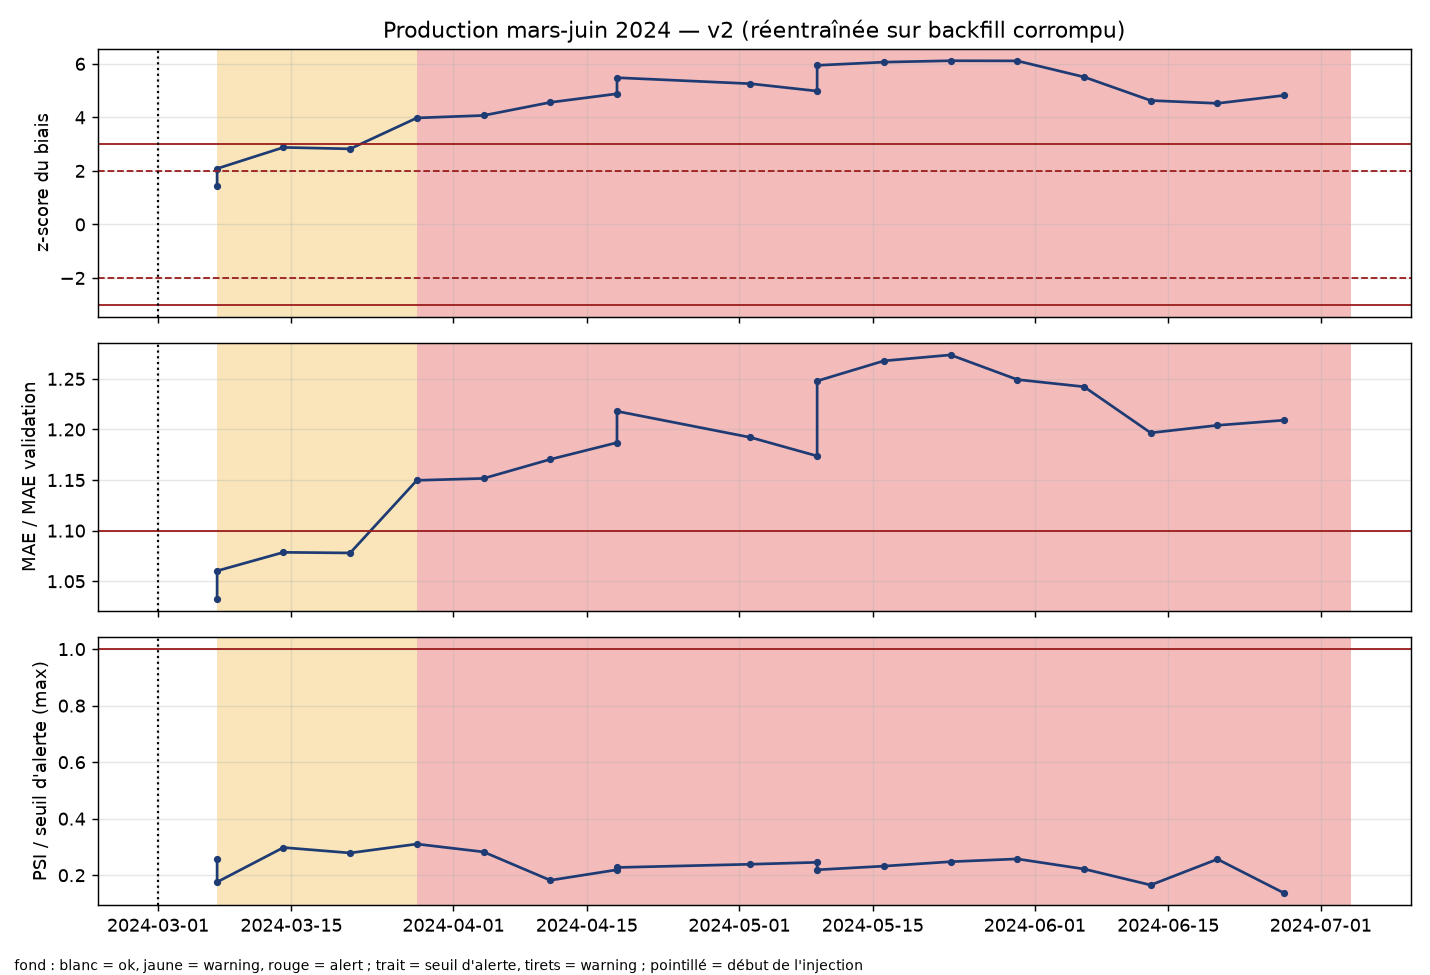
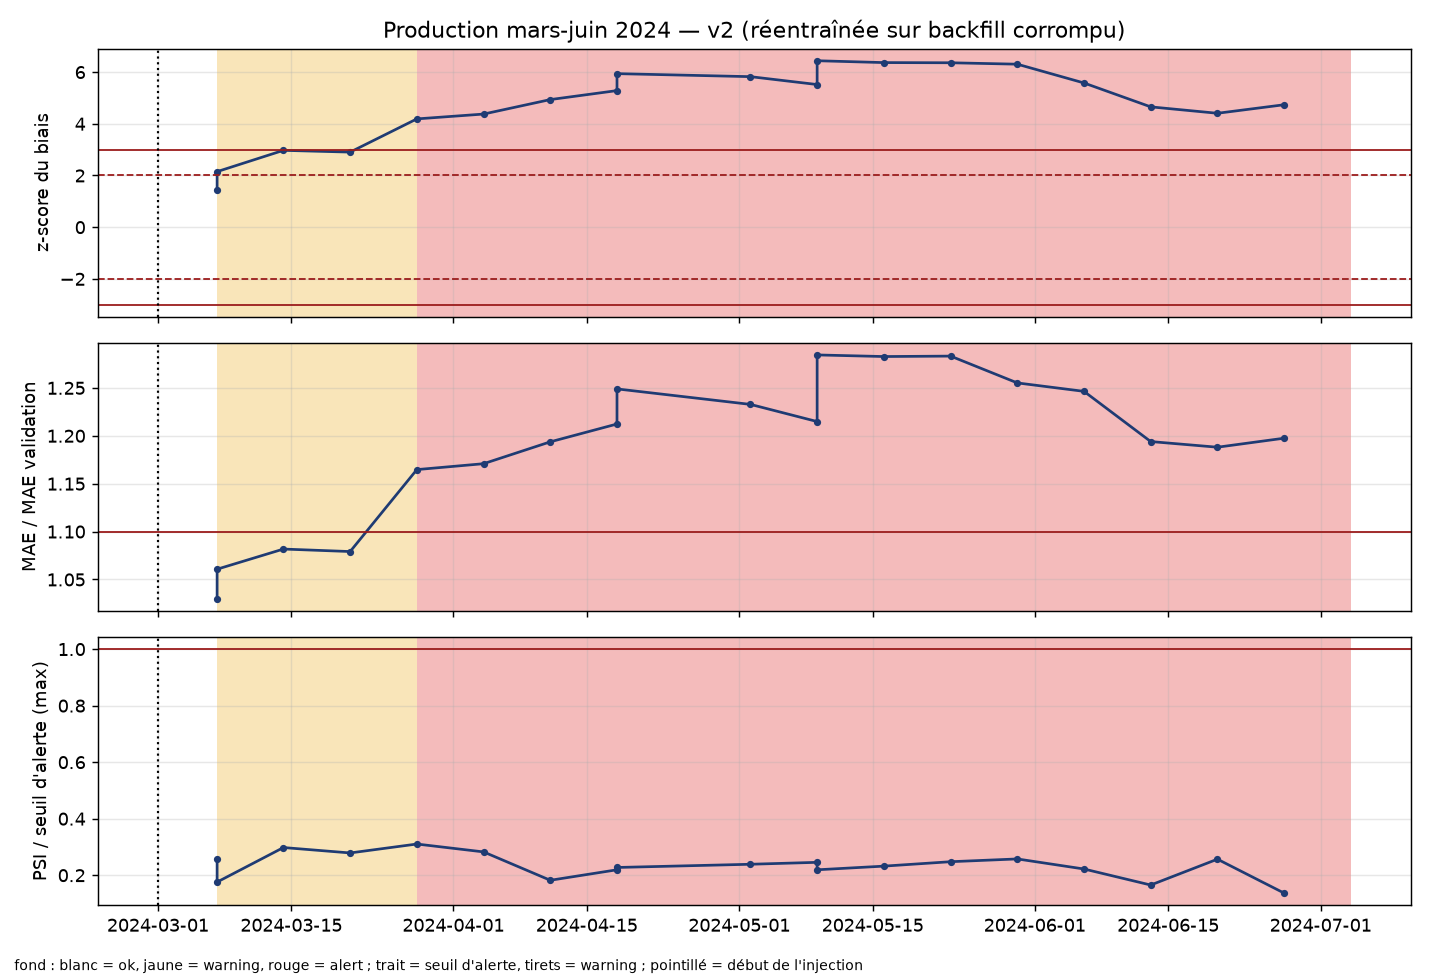
incident: rapports régénérés après le correctif as-of du déclencheur
Au 1er mars 2024 (23:59), le Cognizant Classic (29 février-3 mars) est en cours :
il sort désormais de la fenêtre de décision du réentraînement corrompu. Le scénario
est relancé (scripts/incident.py all) et la démo rejouée (demo.sh --prepare puis
--no-pause). Chronologie inchangée (rollback le 25 mars, 1re alerte le 28, 0 alerte
PSI, 19 contrôles ok sur 19 après rollback) ; chiffres mis à jour dans le README :
biais +0,88 coup au 4e tournoi, démo ALERT biais +1,79 (z = 5,9) puis OK +0,23.

diff --git a/README.md b/README.md
@@ -164,13 +164,13 @@ bash scripts/demo.sh                         # démo en direct, pause entre chaq
 Scénario : le 1er mars 2024, un réentraînement de routine se fait sur un backfill météo
 téléchargé en m/s au lieu de km/h (vent ÷ 3,6). La fenêtre de décision étant corrompue
 elle aussi, le challenger gagne la comparaison et devient champion. En production, sur des
-données saines, le PSI ne bouge pas, mais le biais monte à +0,85 coup en 4 tournois. Le
+données saines, le PSI ne bouge pas, mais le biais monte à +0,88 coup en 4 tournois. Le
 déclencheur choisit le **rollback** le 25 mars (dégradation juste après une mise en
 service), et le monitoring revient à ok (19 contrôles sur 19).
 
 La démo (`scripts/demo.sh`, ≈ 10 s sans les pauses) enchaîne : l'API sert la version
-corrompue, 3 442 prédictions de mars-avril 2024, `monitor check` → alerte (biais +1,65,
-z = 5,5), `trigger` → rollback et rechargement de l'API, mêmes requêtes → ok. Rapport :
+corrompue, 3 442 prédictions de mars-avril 2024, `monitor check` → alerte (biais +1,79,
+z = 5,9), `trigger` → rollback et rechargement de l'API, mêmes requêtes → ok. Rapport :
 `docs/incident.md`.
 
 ## Remote DVC (stockage local)
